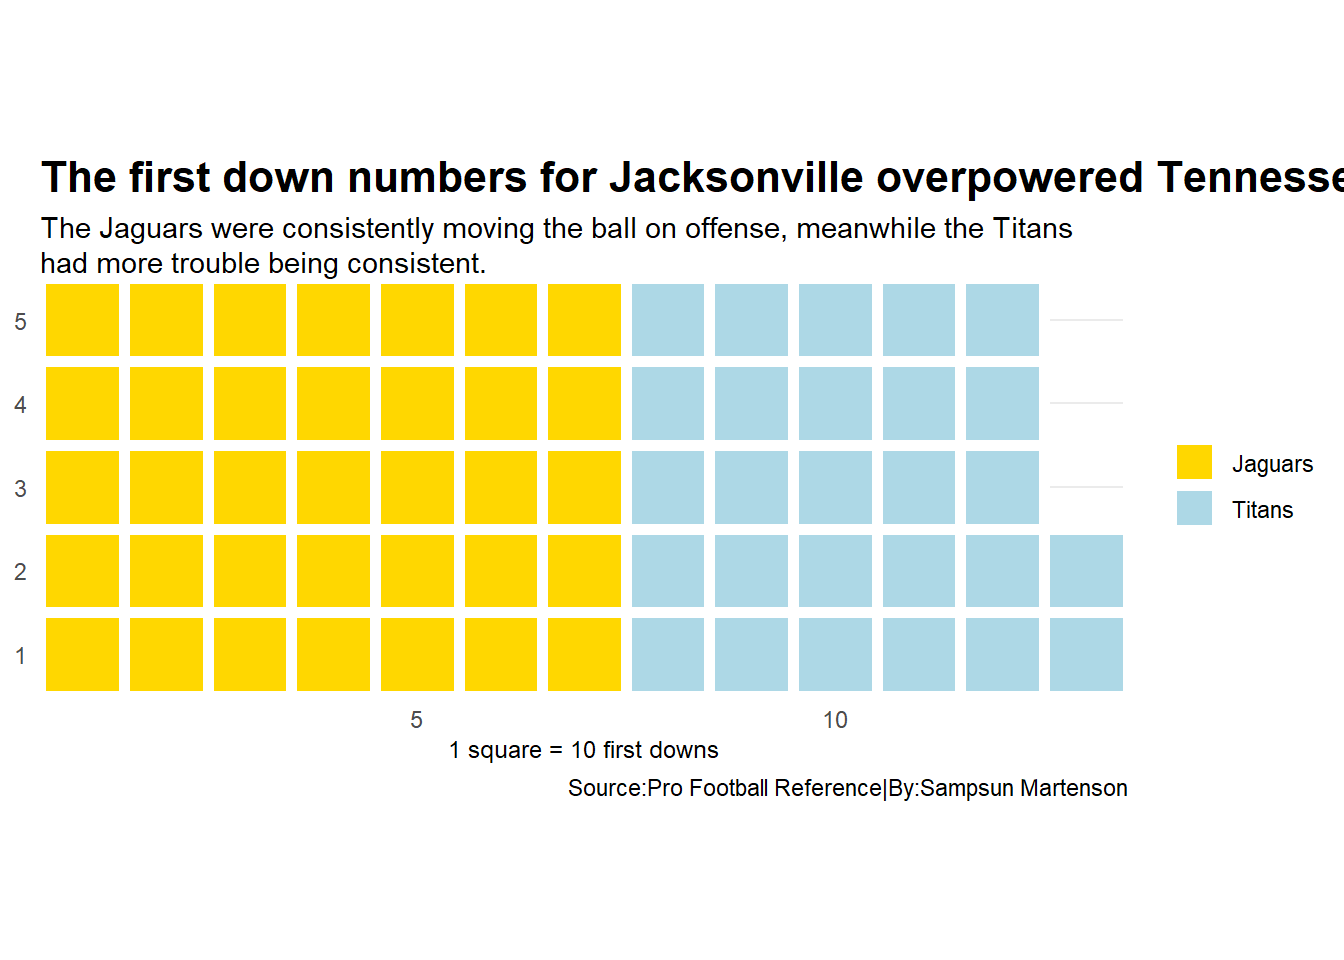
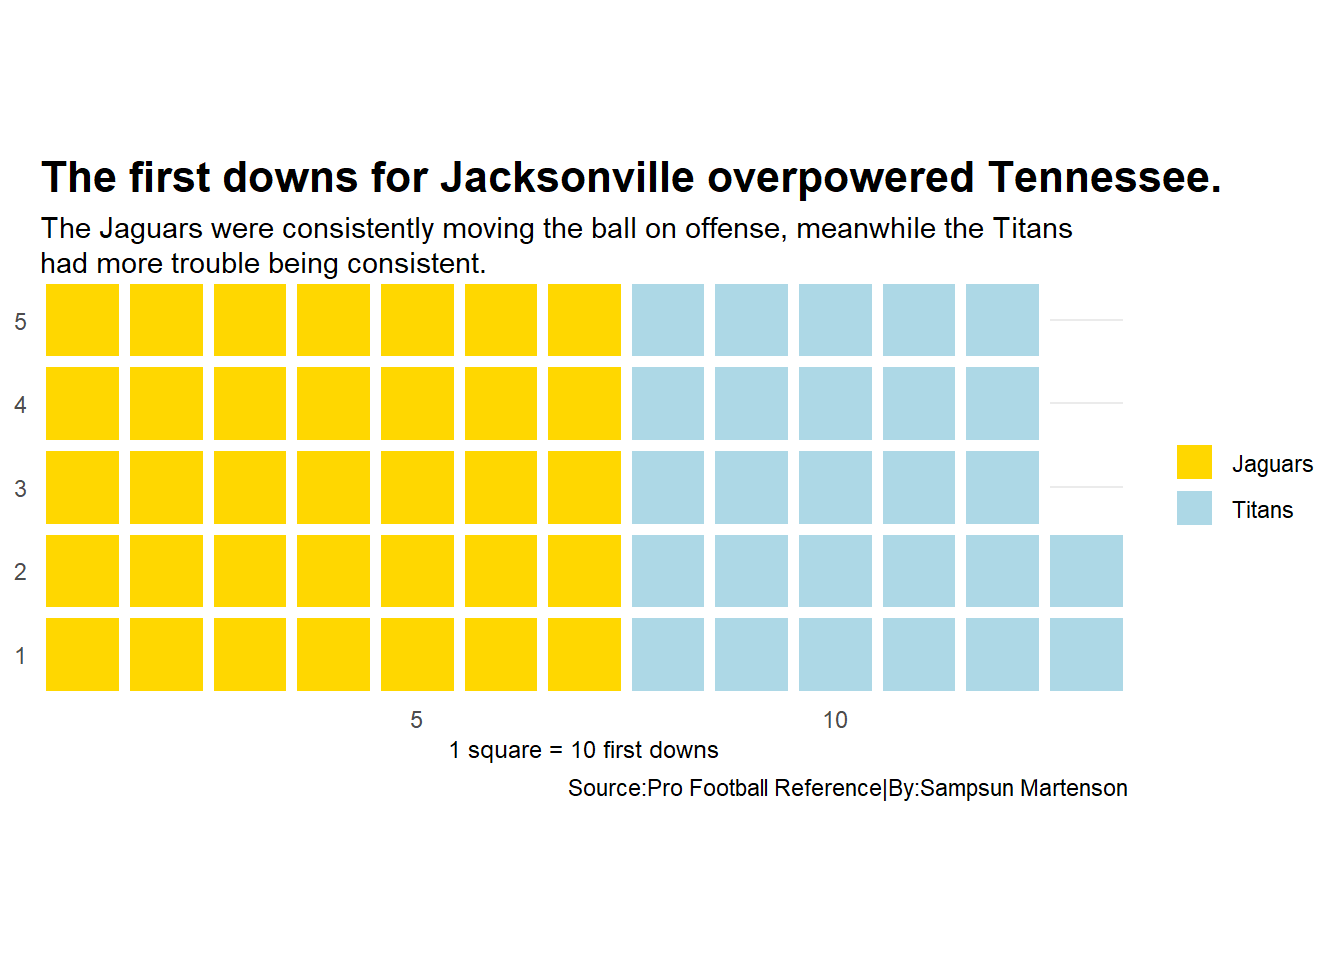
ahhhh

Changed region(s): [[0.25, 0.1562, 0.6875, 0.2188], [0.7188, 0.1562, 1.0, 0.2188]]

diff --git a/posts/jags-titans/index.html b/posts/jags-titans/index.html
@@ -330,7 +330,7 @@ code span.wa { color: #60a0b0; font-weight: bold; font-style: italic; } /* Warni
 <span id="cb4-14"><a href="#cb4-14" aria-hidden="true" tabindex="-1"></a>  <span class="fu">labs</span>( </span>
 <span id="cb4-15"><a href="#cb4-15" aria-hidden="true" tabindex="-1"></a>    <span class="at">x =</span> <span class="st">"1 square = 10 first downs"</span>,</span>
 <span id="cb4-16"><a href="#cb4-16" aria-hidden="true" tabindex="-1"></a>    <span class="at">y =</span> <span class="st">"Week"</span>,</span>
-<span id="cb4-17"><a href="#cb4-17" aria-hidden="true" tabindex="-1"></a>    <span class="at">title=</span><span class="st">"The first down numbers for Jacksonville overpowered Tennessee."</span>, </span>
+<span id="cb4-17"><a href="#cb4-17" aria-hidden="true" tabindex="-1"></a>    <span class="at">title=</span><span class="st">"The first downs for Jacksonville overpowered Tennessee."</span>, </span>
 <span id="cb4-18"><a href="#cb4-18" aria-hidden="true" tabindex="-1"></a>    <span class="at">subtitle =</span> <span class="st">"The Jaguars were consistently moving the ball on offense, meanwhile the Titans had more trouble being consistent."</span>,  </span>
 <span id="cb4-19"><a href="#cb4-19" aria-hidden="true" tabindex="-1"></a>  <span class="at">caption=</span><span class="st">"Source:Pro Football Reference|By:Sampsun Martenson"</span>) <span class="sc">+</span></span>
 <span id="cb4-20"><a href="#cb4-20" aria-hidden="true" tabindex="-1"></a>  <span class="fu">theme</span>(</span>

diff --git a/index.html b/index.html
@@ -171,7 +171,7 @@ ul.task-list li input[type="checkbox"] {
 
 <div class="quarto-listing quarto-listing-container-default" id="listing-listing">
 <div class="list quarto-listing-default">
-<div class="quarto-post image-right" data-index="0" data-categories="jaguars,titans,NFL" data-listing-date-sort="1683435600000" data-listing-file-modified-sort="1683488571206" data-listing-reading-time-sort="7.41">
+<div class="quarto-post image-right" data-index="0" data-categories="jaguars,titans,NFL" data-listing-date-sort="1683435600000" data-listing-file-modified-sort="1683488794638" data-listing-reading-time-sort="7.405">
 <div class="thumbnail">
 <p><a href="./posts/jags-titans/index.html"> <img src="./posts/jags-titans/image.png" class="thumnail-image"> </a></p>
 </div>
